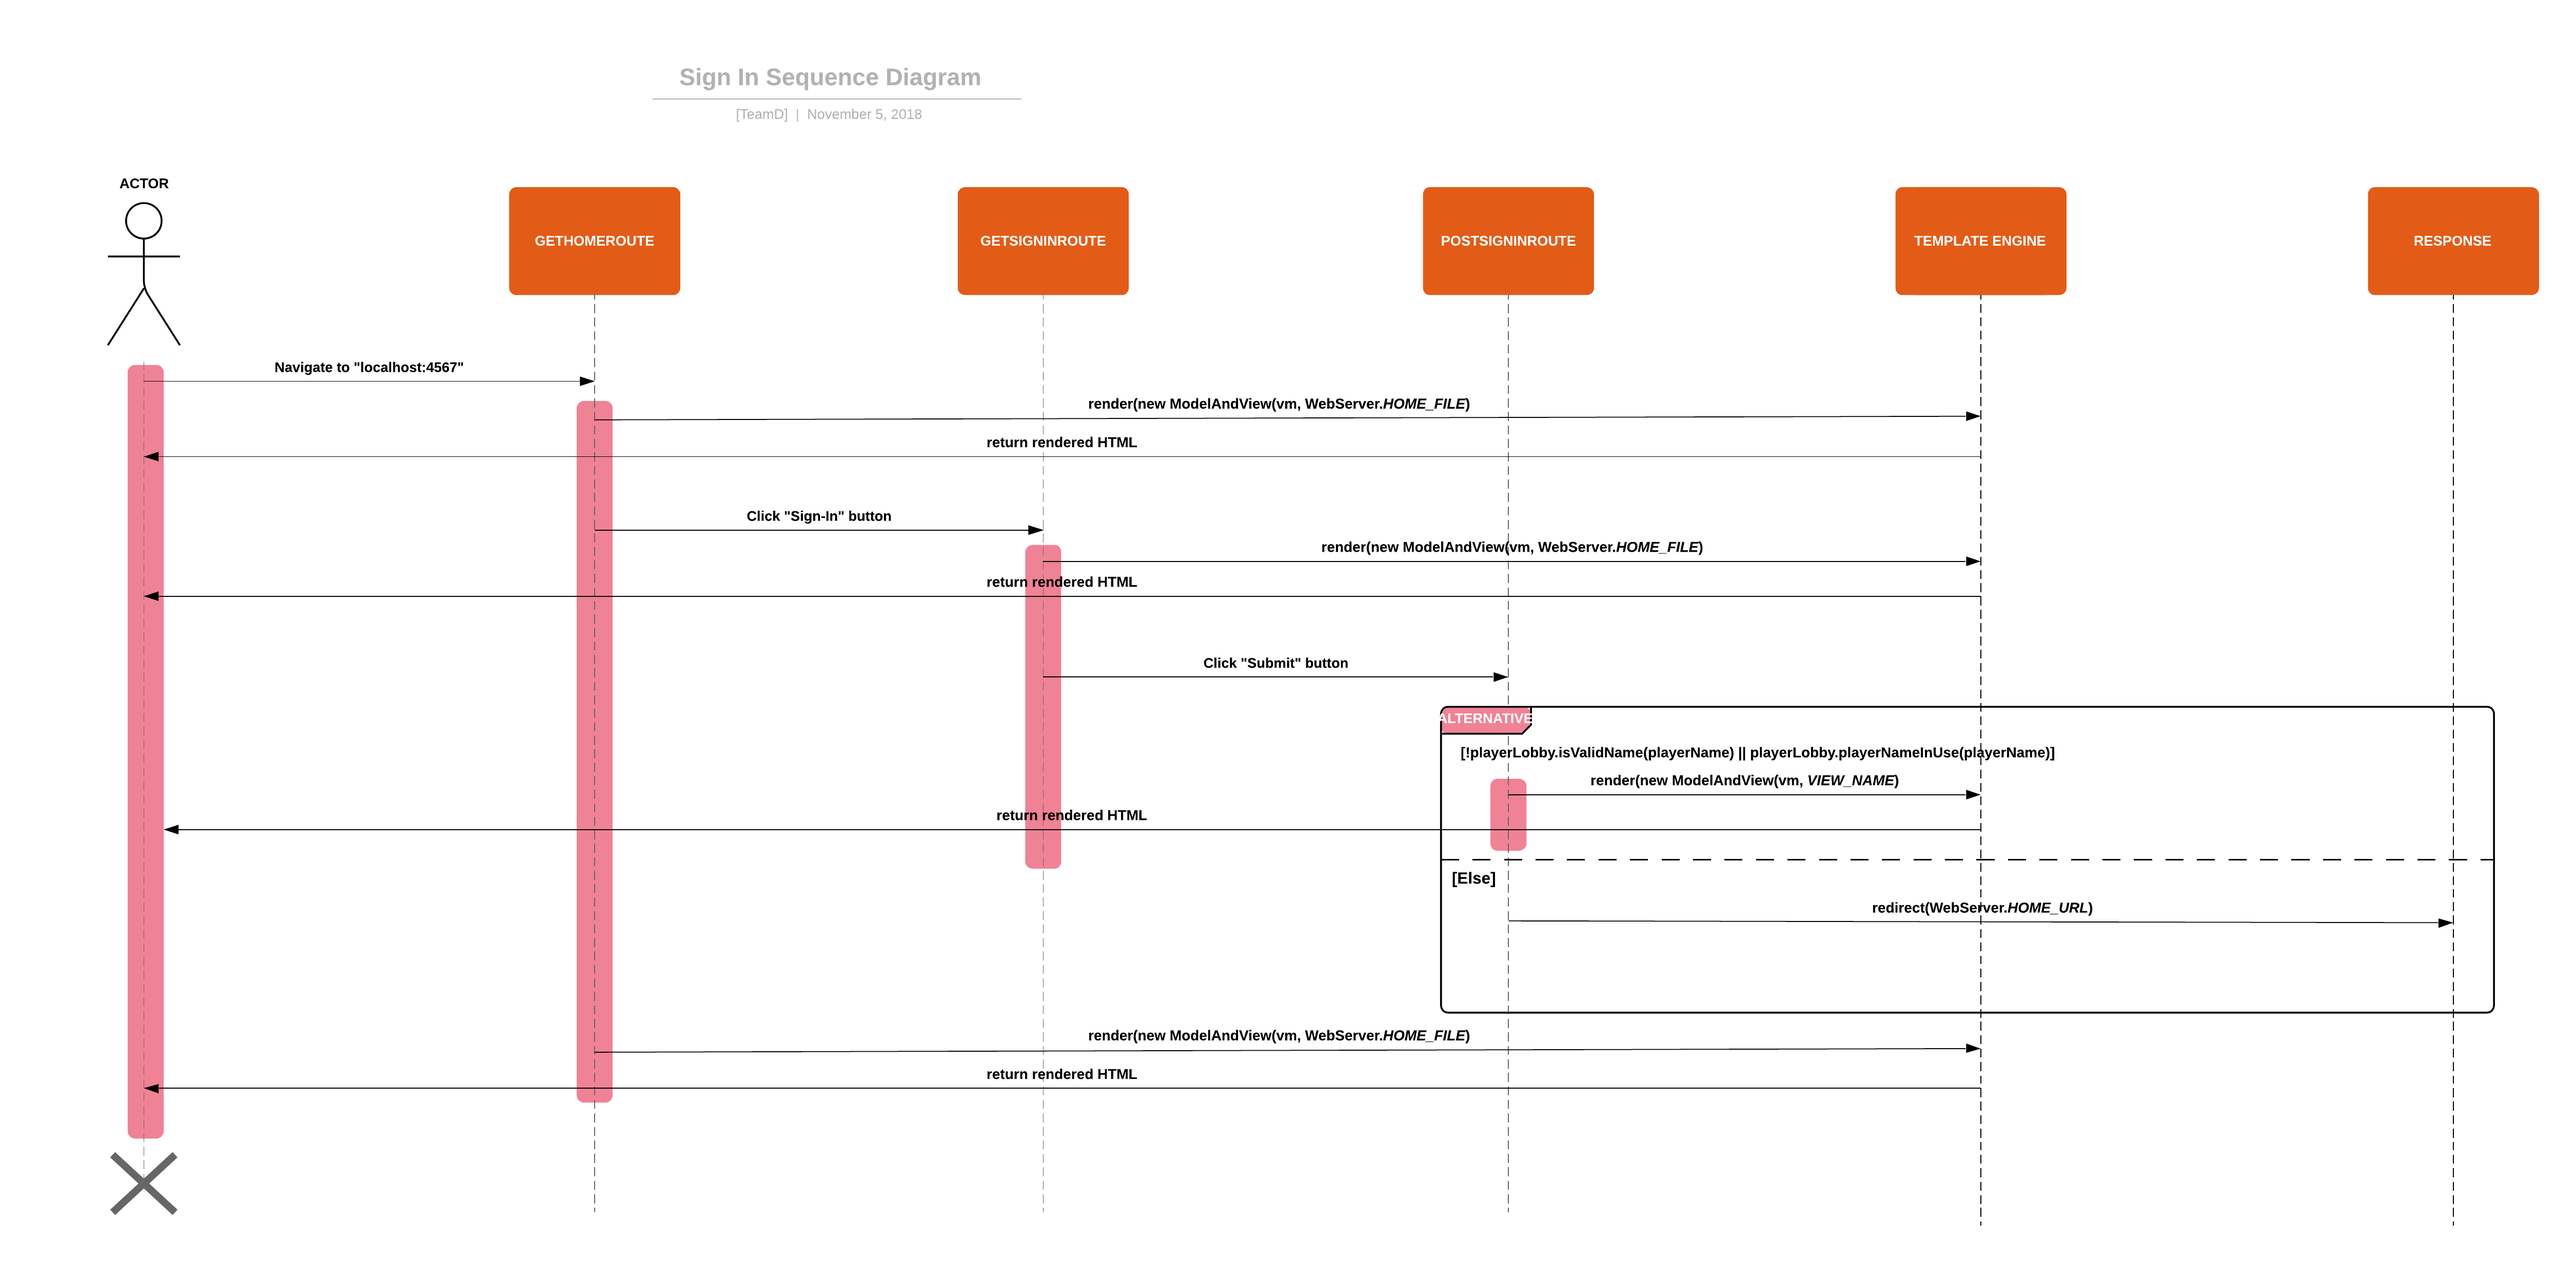
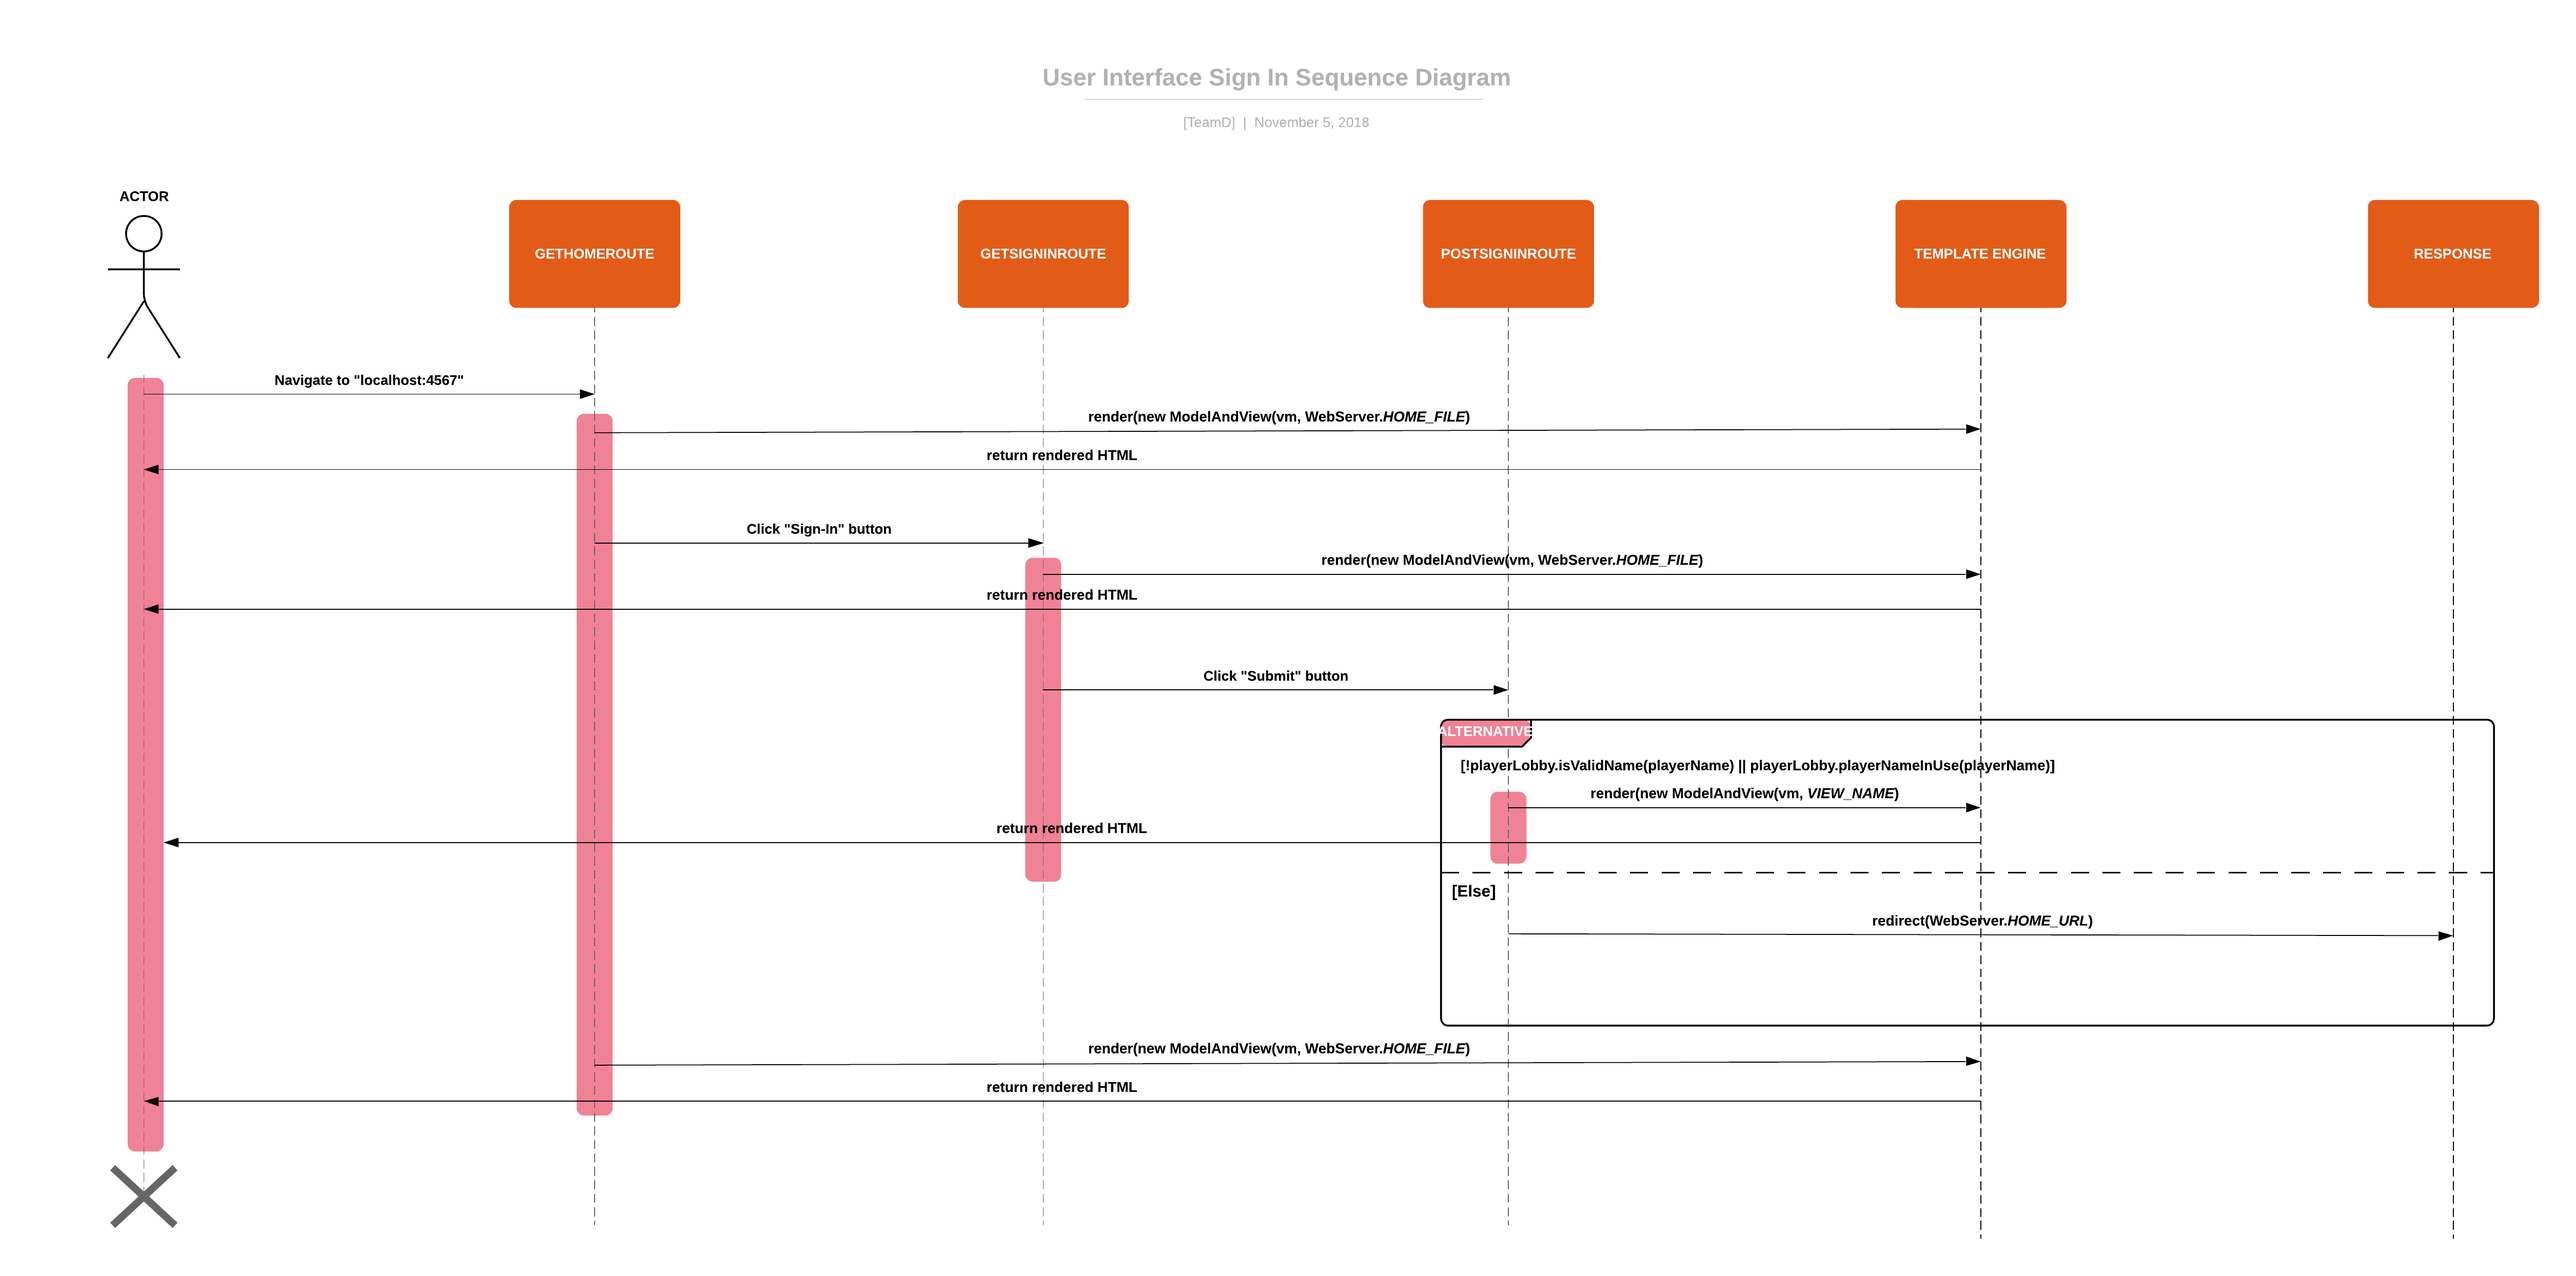
UI Tier

diff --git a/docs/DesignDoc.md b/docs/DesignDoc.md
@@ -126,17 +126,17 @@ GetHomeRoute is responsible for displaying the home page, with a Sign In button 
 to GetSignInRoute, which is responsible for displaying the sign in page. On the sign in page, the client can type a name into the space provided and press the submit button, 
 which will send the client to PostSignInRoute. In PostSignInRoute, if the username is invalid or already taken, the user will remain on the sign in page but with an error message; 
 if the username is valid and unique, the player will be signed in and redirected back to the home page.
-This process of signing in can be seen in the following sequence diagram:
+This process of signing in, from the perspective of the User Interface, can be seen in the following sequence diagram:
 
 :![Sign In Sequence Diagram](Sign%20In%20Sequence%20Diagram.png)
 
 
-Back in GetHomeRoute, the current lobby will now be displayed and, if there is more than one in the lobby, there will be
+Back in GetHomeRoute, the current lobby will now be displayed and, if there is more than one player in the lobby, there will be
 an option to select a player and start a game. Once the client chooses an opponent and clicks the start game button, the client is sent to GetGameRoute.
 GetGameRoute is responsible for creating a match in GameCenter (if one does not already exist) and displaying the game page
-to the client. The second player is added to the game page after the match is created in GameCenter, since the opponent is in GetHomeRoute; this
-works by GetHomeRoute consistently checking if the player is contained in game center, and if it is then it will 
-redirect the player to the page.
+to the client. The second player is added to the game page after the match is created in GameCenter, since the opponent is still in GetHomeRoute; this
+works by GetHomeRoute consistently checking if the player is contained in GameCenter, and if it is then it will 
+redirect the player to the game page.
 
 
 > _Provide a summary of the Server-side UI tier of your architecture.
@@ -163,9 +163,7 @@ redirect the player to the page.
 
 
 ### Application Tier
-> _Provide a summary of the Application tier of your architecture. This
-> section will follow the same instructions that are given for the UI
-> Tier above._
+The application tier contains two components: GameCenter and PlayerLobby. When a player signs in, 
 
 
 ### Model Tier
@@ -175,6 +173,7 @@ redirect the player to the page.
 
 ### Significant Features
 
+_(Figure 176)_
 :![Start A Game Sequence Diagram](Start%20A%20Game%20Sequence%20Diagram.png)
 
 ### Design Improvements
